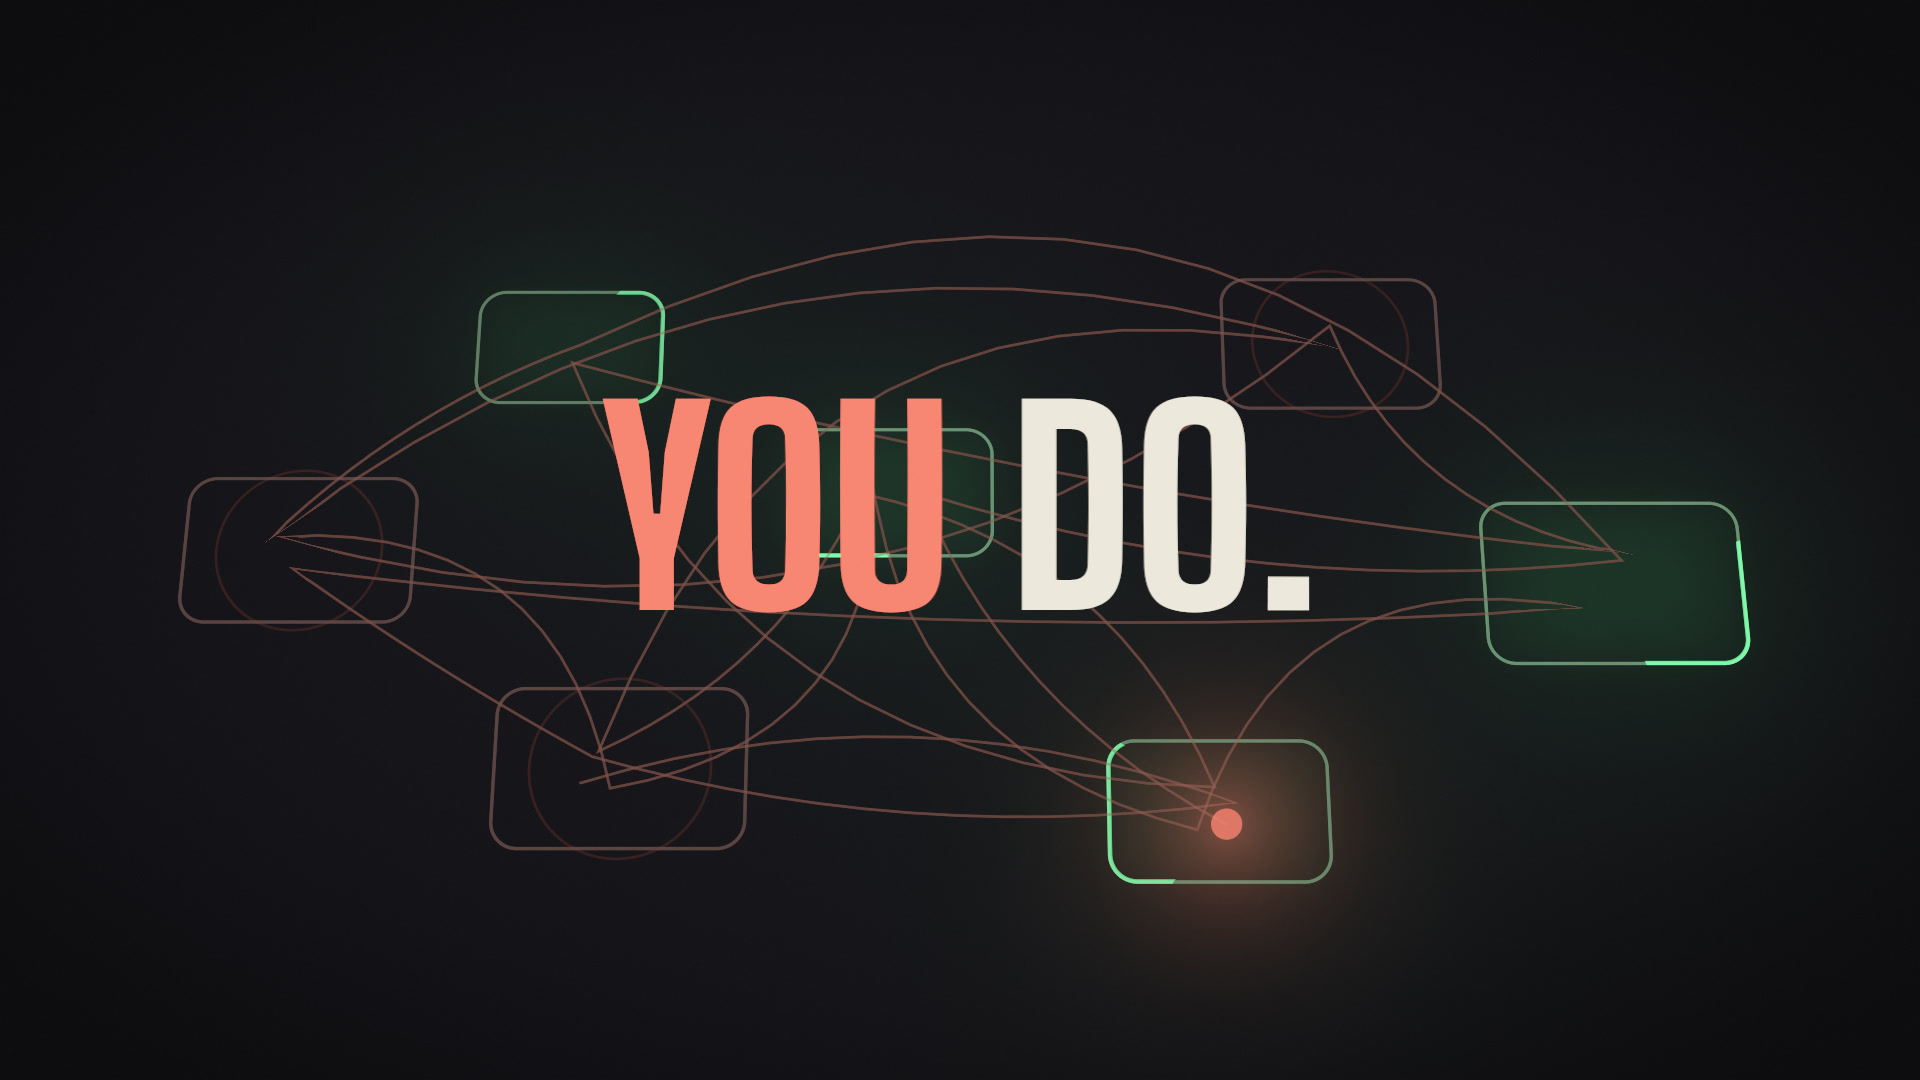
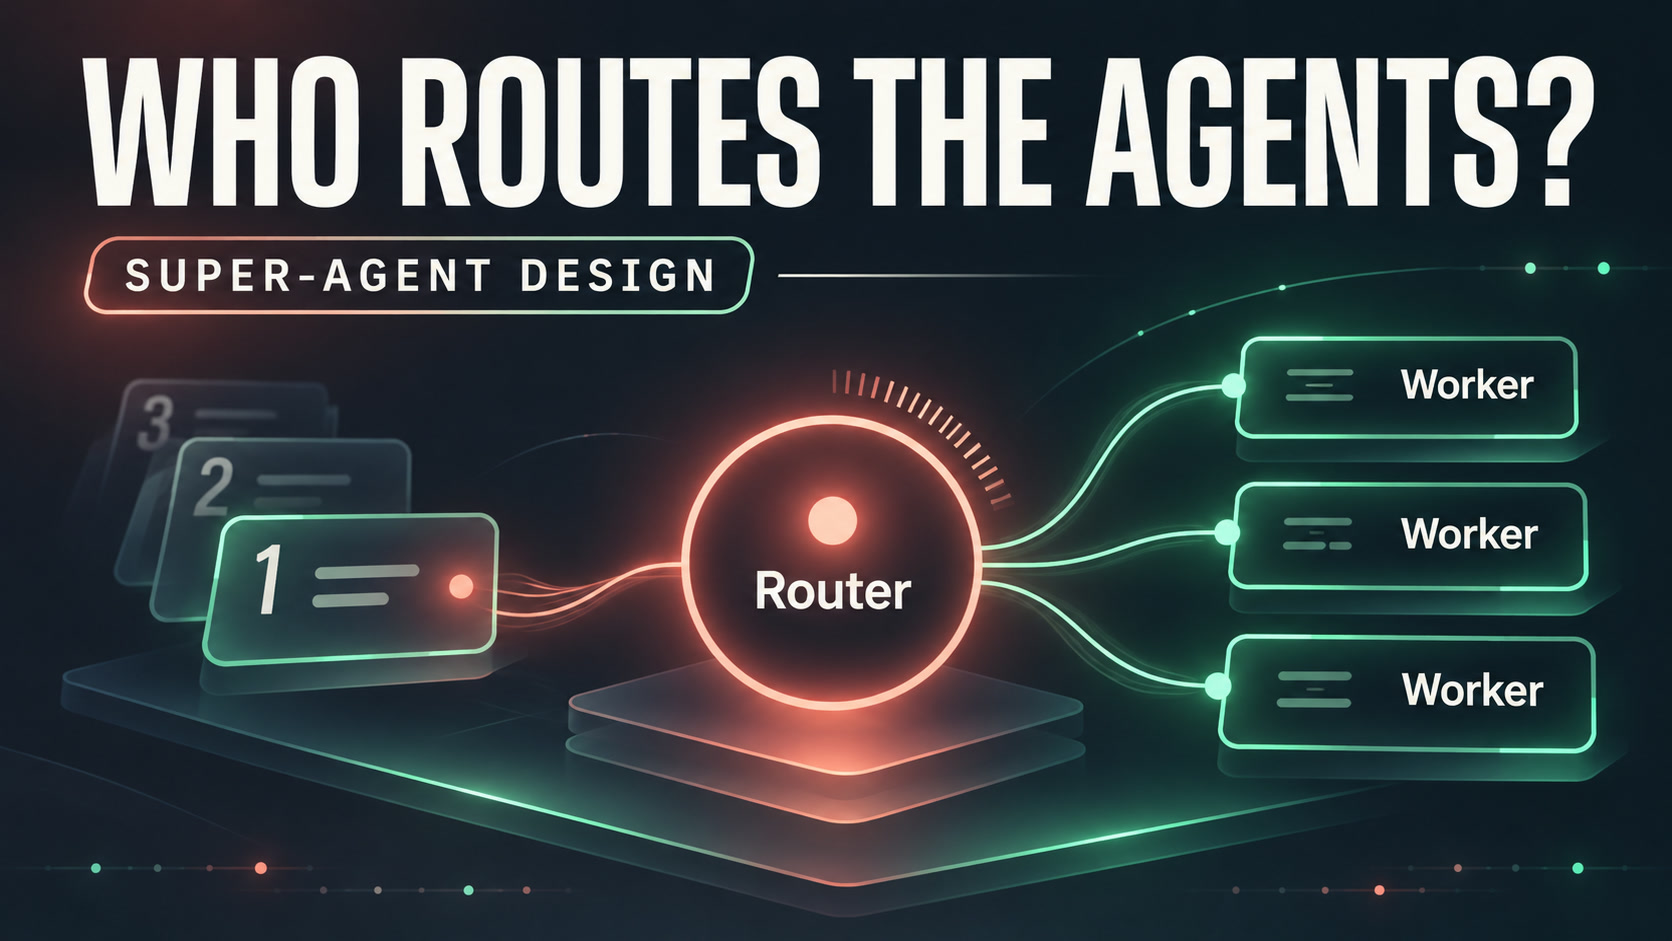
docs(super-agent): the final approved and published; the uploaded thumbnail, title and description
The user approved the final and published it (https://youtu.be/-b7g5XIgEn0).
publish/ now holds the thumbnail as uploaded (the creator's ChatGPT image,
class A, LicenseRef-AI-Output, with its provenance) and the title and
description as uploaded; the README opens on the thumbnail, linked to the film.

diff --git a/videos/super-agent/publish/description.en.md b/videos/super-agent/publish/description.en.md
@@ -1,46 +1,30 @@
-# Title and description (proposed; the creator sets the final wording at upload)
+# Title and description as uploaded (YouTube, 2026-11-17 18:30 UTC)
 
-**Title:** Who Routes the Agents? The Super-agent Design in 3 Minutes
+**Title:** Who Routes the Agents? | DSH Super-agent Architecture Explanation
 
-**Alternatives:** One Router, Many Workers: The DeepSeek Harness Team's Super-agent Design, Explained · Who Routes the Agents? (A code-made explainer)
+What happens when you run multiple AI agents in parallel? Someone has to manage their tasks, context and progress, who is usually you.
 
-Each paragraph below is one line, as YouTube shows it. One sentence depends on the order of release and has two versions: see the note at the end.
+This 2min48s visual explainer breaks down the Super-agent architecture proposed by the DeepSeek Harness team earlier this month: a long-lived Router coordinating independent Workers, supported by event filtering, task subscriptions, batching, and context management.
 
-When you run many AI agent sessions at once, someone has to decide which one gets what, and remember what each of them holds. Today that someone is you.
+It also covers the authors' experimental results, the trade-offs, and what's still proposed or unresolved. This is an architectural exploration, not a finished product.
 
-This film explains "Exploring Super-agent Design: Towards a More Autonomous Agent System", an article from the DeepSeek Harness team (its English version, a machine translation of a Chinese original). Its design puts one long-lived Router above isolated Workers: the Router routes and never executes, a Worker gets one whole task and its own context, and only the Router answers you.
+This video itself took three iterations to get right.
 
-Can one Router take all that? The film draws four answers from the article:
-1. Few events reach it: plain code filters first, then a model judges.
-2. Follow-ups go straight to the Worker that is on the task. The Router sees them, but does not decide again.
-3. What does arrive waits and enters together, up to a limit per call.
-4. Its context works like a cache: summaries stay in view, details wait behind IDs.
+The first version was too simplistic: mostly flat 2D diagrams. When I asked Opus 5.5 to improve visual quality, the second went too far in the opposite direction: elaborate 3D objects, excessive details, and a cluttered composition.
 
-It also shows what the authors measured and how thin that evidence is (a synthetic test, five runs per design, indicative only). Against one session with a subagent tool that was told to delegate first, the slowest tasks took about half the time and typical ones were about 10% faster. The price was 2 to 4 times the cache-read tokens of that one session: about 2 times when it was told to delegate first, about 4 times when it was left to choose.
+For this final version, I switched to Fable 5.2, provided clearer visual references, and focused on hierarchy, continuity, and storytelling rather than complexity.
 
-Running in the cloud and a check for stuck Workers are proposed, and neither is in the public prototype. Long memory, security, stepping in mid-task and more than one Router are open questions.
+The result is a cleaner, more coherent visualization built entirely with code: WebGL-rendered frames, programmatic music, and no voiceover or generative video models.
 
-The article describes a design, not a product. A public research prototype builds part of it, and the film marks two places where the prototype differs.
+Original DeepSeek Harness article:
+https://x.com/i/article/2116829218935857152
 
-Source (an X article of about 6,900 words; X may ask you to log in): https://x.com/i/article/2116829218935857152
-The authors' prototype (the film read it at commit 8c32a9d): https://github.com/deepseek-ai/dsh-superagent-prototype
+Research prototype:
+https://github.com/deepseek-ai/dsh-superagent-prototype
 
-How it was made: no camera, no editor, no voice. Every frame is drawn by code on one WebGL canvas, and the music is synthesised by code, both written with Claude Code (Claude Fable 5.2) under my direction. There is no generative image, video, music or voice model in it. The tooling is public, and this film's source and its facts file with every claim's reference follow with the release: https://github.com/earthwalker17/AI-videos
+Video source code and production framework:
+https://github.com/earthwalker17/AI-videos
 
-An independent explainer. Not affiliated with, sponsored by or endorsed by DeepSeek. Any mistake in it is mine, not the authors'.
+This is an independent educational work, not affiliated with or endorsed by DeepSeek. The architecture is based on the team's published research and prototype.
 
-0:00 Who routes the agents?
-0:16 The Super-agent design: one Router, many Workers
-0:48 One Router for all this? 1. Two gates
-1:07 2. Follow-ups skip its decision
-1:20 3. Arrivals enter together
-1:38 4. Details wait behind IDs
-1:50 The authors' test
-2:10 Proposed and open
-2:20 You decide, you sign off
-
-#aiagents #agents #deepseek #llm #creativecoding #webgl #claudecode
-
----
-
-**Note on the release order.** The sentence "The tooling is public, and this film's source and its facts file ... follow with the release" is true if the film is uploaded before this repository's main branch is pushed (the order used for the last film). If main is pushed first, use instead: "The source, the facts file with every claim's reference, and the tooling are public: https://github.com/earthwalker17/AI-videos". The text above this rule is the description; this note is not part of it.
+#aiagents #deepseek #claudecode #creativecoding #webgl

diff --git a/videos/super-agent/README.md b/videos/super-agent/README.md
@@ -1,15 +1,17 @@
 # Who Routes the Agents?
 
+[![Who Routes the Agents? The film's thumbnail: a Router between three numbered sessions and three Workers, under the title and the tag SUPER-AGENT DESIGN. Click to watch the film on YouTube.](publish/thumbnail.jpg)](https://youtu.be/-b7g5XIgEn0)
+
 An explainer for curious developers on YouTube. Its subject is the DeepSeek Harness team's article
 *Exploring Super-agent Design: Towards a More Autonomous Agent System*: the Chinese original appeared
 on 2026-10-31, and the English machine translation on 2026-11-01. The article argues that when one
 person runs many AI agent sessions, that person quietly becomes their router. Its design hands that
 job to a long-lived Router above isolated Workers. A public research prototype builds part of the
-design. The research is done: [FACTS.md](FACTS.md), with its sources in [sources.jsonl](sources.jsonl).
-The title is a working title.
+design. The research is in [FACTS.md](FACTS.md), with its sources in [sources.jsonl](sources.jsonl). On
+YouTube the film is titled *Who Routes the Agents? | DSH Super-agent Architecture Explanation*.
 
 **Series:** [3D Concept Visualizations](../../series/concept-viz/SERIES.md) · **Number:** 4 · **Engine:** web, 1920×1080 at 60 fps
-▶ **Watch:** not yet published.
+▶ **Watch:** [youtu.be/-b7g5XIgEn0](https://youtu.be/-b7g5XIgEn0) (published 2026-11-17)
 
 ## Status: V2, locked
 - **V1 was archived unpublished on 2026-11-15.** [V1.md](V1.md) records what it was and what it

diff --git a/videos/super-agent/publish/ai-disclosure.md b/videos/super-agent/publish/ai-disclosure.md
@@ -16,9 +16,9 @@
 - **What no AI did:** no generative image, video, music or voice model was used in the film.
   There is no photographic, recorded or sampled person, voice or place in it: shapes, lines and
   type are drawn by code, and every sound is synthesised by code.
-- **The thumbnail** (`thumbnail.jpg`) is a frame of the film itself, drawn by the same code; its
-  provenance is in `thumbnail.provenance.json`. If the creator replaces it at upload, the record
-  is updated with what was used.
+- **The thumbnail** (`thumbnail.jpg`) was generated by the creator with ChatGPT's image
+  generation (OpenAI), restaging the film's own subject, title and palette; its provenance is in
+  `thumbnail.provenance.json`.
 - **YouTube's "altered or synthetic content" setting** (Studio, "AI use"): YouTube asks for it
   when realistic content is generated or meaningfully altered (real people, events or places,
   realistic scenes) and exempts clearly unrealistic, fully animated content. This film is an

diff --git a/videos/super-agent/publish/chapters.md b/videos/super-agent/publish/chapters.md
@@ -1,8 +1,10 @@
 # Chapters
 
-Times are the final's (it has no test card). YouTube needs at least three chapters of at least
-ten seconds each, the first at 0:00; the two short stretches (the title card, the question) are
-therefore folded into the chapter they open.
+The description as uploaded carries no chapter list, so the film is published without chapters;
+this list is kept for a later edit of the description. Times are the final's (it has no test
+card). YouTube needs at least three chapters of at least ten seconds each, the first at 0:00; the
+two short stretches (the title card, the question) are therefore folded into the chapter they
+open.
 
 ```
 0:00 Who routes the agents?
